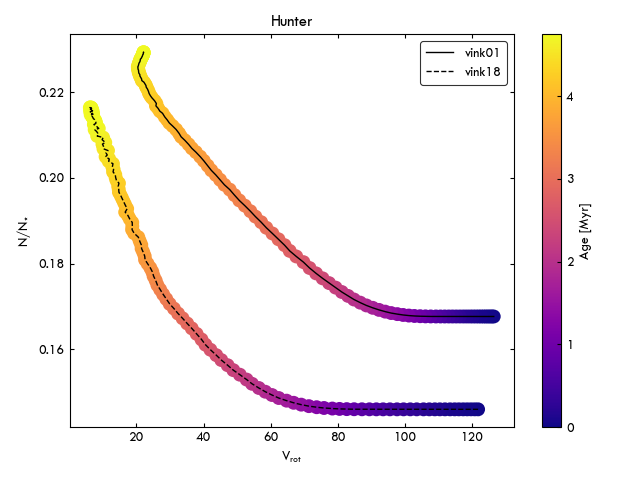
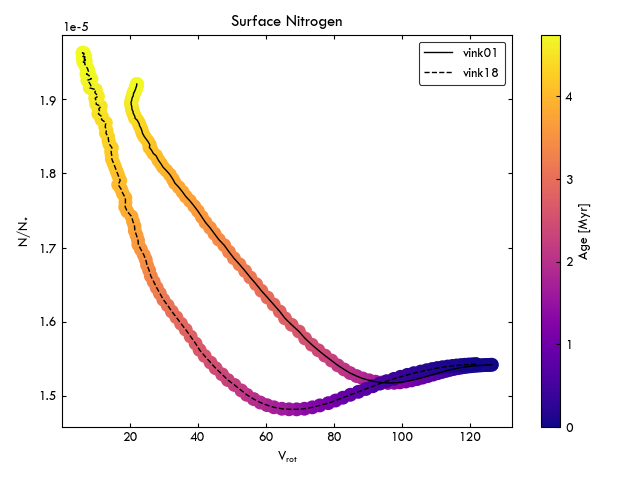
newplots

diff --git a/Code/Code/kippenhahn.py b/Code/Code/kippenhahn.py
@@ -19,6 +19,7 @@ Lsun = 3.828 * pow(10,33)
 Msun = 1.99 * pow(10,33)
 pi = np.pi
 
+# ----- Function to Plot Labels on Axis
 def multicolor_ylabel(ax,list_of_strings,list_of_colors,axis='x',anchorpad=0,**kw):
     """this function creates axes labels with multiple colors
     ax specifies the axes object where the labels should be drawn
@@ -55,7 +56,7 @@ def multicolor_ylabel(ax,list_of_strings,list_of_colors,axis='x',anchorpad=0,**k
         ax.add_artist(anchored_ybox)
 
 
-# ------ Mass Fractions ------
+# ------ Mass Fractions and Elements ------
 def mass(model1,model2, ms):
 
     if ms == True:
@@ -82,15 +83,6 @@ def mass(model1,model2, ms):
     # ------ Plot Lines ------
     ax.plot(model1.time[0:lim1], model1.convective_core[0:lim1], linestyle = 'dashed', color = 'black', label = 'Convective Core')
     #ax.plot(model1.time[0:lim1], model1.convtop[0:lim1], linestyle = 'dotted', color = 'black', label = 'Convective Top')
-    
-    #ax.plot(model1.time[0:lim1], model1.HeC[0:lim1], linewidth = 3, color = 'green', label = 'Bot h1')
-    #ax.plot(model1.time[0:lim1], model1.ntoth1[0:lim1], linewidth = 3, color = 'black', label = 'Total')
-    #ax.plot(model1.time[0:lim1], model1.botsurfhe[0:lim1], linewidth = 3, color = 'red', label = 'Bot he')
-    #ax.plot(model1.time[0:lim1], model1.ntothe[0:lim1], linewidth = 3, color = 'darkred', label = 'Tot he')
-    
-    #ax.plot(model1.time[0:lim1], model1.convbot[0:lim1], linewidth = 3, color = 'blue', label = 'conv-bot')
-    #ax.plot(model1.time[0:lim1], model1.nczradius[0:lim1], linestyle = 'dashed', linewidth = 1, color = 'lime', label = 'Conv Core Radius')
-    #ax.plot(model1.time[0:lim1], model1.convective_core[0:lim1], linewidth = 3, color = 'pink', label = 'core')
 
     # ------ Plot Colors ------
     ims1 = ax.scatter(BaseZams, zams.normM * model1.nmass[63 - 57], c= zams.mixtype, marker='_', edgecolors='none', s=100, cmap=colormap, vmin = 0, vmax = 6, zorder = 2)
@@ -103,23 +95,9 @@ def mass(model1,model2, ms):
     
     ax.fill_between(model1.time[0:lim1], model1.botsurfh1[0:lim1], model1.ntoth1[0:lim1], alpha = 0.6, color = 'darkgreen')
     ax.fill_between(model1.time[0:lim1], 0, model1.botsurfh1[0:lim1], alpha = 0.6, color = 'lime')
-    # ax.fill_between(model1.time[0:lim1], 0, model1.HC[0:lim1], alpha = 0.4, color = 'navy', hatch = '/')
-    # ax.fill_between(model1.time[0:lim1], 0, model1.HeC[0:lim1], alpha = 0.4, color = 'red', hatch = '/')
-    
 
-    # ax.fill_between(model1.time[0:lim1], model1.convbot2[0:lim1], model1.convtop2[0:lim1], alpha = 0.4, color = 'grey', hatch = '/')
-
-    #ax.fill_between(model1.time[0:lim1], 0, model1.ntoth1[0:lim1], alpha = 0.4, color = 'grey', hatch = '/')
     ax.fill_between(model1.time[0:lim1], model1.nmass[0:lim1], model1.nhemin[0:lim1], alpha = 0.6, color = 'darkred')
     ax.fill_between(model1.time[0:lim1], model1.nhemin[0:lim1], model1.ntotheminsurfmin[0:lim1], alpha = 0.6, color = 'red')
-    
-    # ax.fill_between(model1.time[0:lim1], model1.convtop[0:lim1], model1.nmass[0:lim1], alpha = 0.01, hatch = '|')
-    # ax.fill_between(model1.time[0:lim1], 0, model1.convective_core[0:lim1], alpha = 0.01, hatch = 'o')
-    
-    #ax.fill_between(model2.time[0:lim2], 0, model2.convective_core[0:lim2], alpha = 0.2, color = 'lime')
-    #ax.fill_between(model2.time[0:lim2], model2.convbot2[0:lim2], model1.convtop2[0:lim2], alpha = 0.2, color = 'lime')
-    #ax1.fill_between(model1.time[0:lim1], model1.convbot[0:lim1], model1.convtop[0:lim1], alpha = 0.2, color = 'grey', hatch = '///')
-
 
     # ------ Text ------
     #ax.text(1.3, 0.2, 'Convective core', fontweight = 'bold')
@@ -128,7 +106,7 @@ def mass(model1,model2, ms):
     # ax1.text(1, 0.8, 'Radiative envelope', fontweight = 'bold')
 
     # ------ Plot Colors On Axis ------
-    multicolor_ylabel(ax,('H$_{\mathregular{surf}}$','H','He$_{\mathregular{surf}}$','He'),('red','darkred','lime','darkgreen'),axis='yleft',size=14,weight='bold')
+    multicolor_ylabel(ax,('H','H$_{\mathregular{surf}}$','He','He$_{\mathregular{surf}}$'),('darkred','red','darkgreen','lime'),axis='yleft',size=14,weight='bold')
     multicolor_ylabel(ax,('Convection','Overshoot','Radiation'),('lightgrey','seagreen','navy'),axis='yright',size=14,weight='bold')
 
     # ------ Show ------
@@ -139,6 +117,71 @@ def mass(model1,model2, ms):
     plt.savefig(f'Plots/Kippenhahn/Kippenhahn{limit}.png')
 
 mass(vink01, vink18, ms=False)
+
+
+# ------ Mass Fractions and Elements ------
+def massconv(model1,model2, ms):
+
+    if ms == True:
+        # main sequence limit
+        lim1 = model1.mainsequence()
+        lim2 = model2.mainsequence()
+        limit = '_ms'
+    else:
+        # full simulation
+        lim1 = len(model1.age)
+        lim2 = len(model1.age)
+        limit = ''
+
+    # ------ Set Plot Style ------
+    default_style()
+    #plt.style.use('dark_background')
+    fig, ax, colormap = kippenhahn()
+
+    # list for x-axis structure plot
+    BaseZams = [0.0648] * len(zams.normR)
+    BaseMid = [3.12] * len(mid.normR)
+    BaseTams = [4.76] * len(tams.normR)
+    
+    # ------ Plot Lines ------
+    ax.plot(model1.time[0:lim1], model1.ntoth1[0:lim1], color = 'deeppink', label = 'Hydrogen')
+    ax.plot(model1.time[0:lim1], model1.ntothe[0:lim1], color = 'darkred', label = 'Helium')
+    # ------ Plot Colors ------
+    ims1 = ax.scatter(BaseZams, zams.normM * model1.nmass[63 - 57], c= zams.mixtype, marker='_', edgecolors='none', s=100, cmap=colormap, vmin = 0, vmax = 6, zorder = 2)
+    ims2 = ax.scatter(BaseMid, mid.normM * model1.nmass[107 - 57], c= mid.mixtype, marker='_', edgecolors='none', s=100, cmap=colormap, vmin = 0, vmax = 6, zorder = 2)
+    ims3 = ax.scatter(BaseTams, tams.normM * model1.nmass[200 - 57], c= tams.mixtype, marker='_', edgecolors='none', s=100, cmap=colormap, vmin = 0, vmax = 6, zorder = 2)
+    # cbar1 = fig.colorbar(ims1, ax = ax)
+    # cbar1.set_label('Zones')
+
+    # ------ Fill Planes ------
+    
+    # ax.fill_between(model1.time[0:lim1], model1.botsurfh1[0:lim1], model1.ntoth1[0:lim1], alpha = 0.6, color = 'darkgreen')
+    # ax.fill_between(model1.time[0:lim1], 0, model1.botsurfh1[0:lim1], alpha = 0.6, color = 'lime')
+
+    # ax.fill_between(model1.time[0:lim1], model1.nmass[0:lim1], model1.nhemin[0:lim1], alpha = 0.6, color = 'darkred')
+    # ax.fill_between(model1.time[0:lim1], model1.nhemin[0:lim1], model1.ntotheminsurfmin[0:lim1], alpha = 0.6, color = 'red')
+    
+    ax.fill_between(model1.time[0:lim1], model1.convtop[0:lim1], model1.nmass[0:lim1], alpha = 0.5, color = 'grey', hatch = '///')
+    ax.fill_between(model1.time[0:lim1], 0, model1.convective_core[0:lim1], alpha = 0.2, color = 'grey', hatch = '///')
+
+    # ------ Text ------
+    ax.text(1.3, 0.2, 'Convective core', fontweight = 'bold')
+    #ax.text(1.3, 0.56, 'Convective mix 1', fontweight = 'bold')
+    #ax.text(1.3, 0.9, 'Convective mix 2', fontweight = 'bold')
+    ax.text(1, 0.8, 'Radiative envelope', fontweight = 'bold')
+
+    # ------ Plot Colors On Axis ------
+    multicolor_ylabel(ax,('Hydrogen','Helium'),('darkred','deeppink'),axis='yleft',size=14,weight='bold')
+    multicolor_ylabel(ax,('Convection','Overshoot','Radiation'),('lightblue','seagreen','navy'),axis='yright',size=14,weight='bold')
+
+    # ------ Show ------
+    #plt.legend(shadow = False, edgecolor = 'k')
+    fig.tight_layout()
+    #plt.show()
+
+    plt.savefig(f'Plots/Kippenhahn/Kipconv{limit}.png')
+
+massconv(vink01, vink18, ms=False)
 
 
 

diff --git a/Code/Code/hunter.py b/Code/Code/hunter.py
@@ -19,30 +19,46 @@ Lsun = 3.828 * pow(10,33)
 Msun = 1.99 * pow(10,33)
 pi = np.pi
 
-
-def plot(model1, model2):
+# ------ Plot Nitrogen Main Sequence ------
+def plot(model1, model2, typ):
 
     # ------ Set Plot Style ------
     default_style()
-    fig, ax, colormap = hunterNH()
+    if typ == 'N':
+        fig, ax, colormap = hunter()
+    if typ =='NH':
+        fig, ax, colormap = hunterNH()
 
     # limits were main sequence ends
     lim1 = model1.mainsequence()
     lim2 = model2.mainsequence()
     
     # plot line
-    ax.plot(model1.vrot[0:lim1], model1.lognit[0:lim1], lw = 1, linestyle = 'solid', color = 'black', label= 'vink01')
-    ax.plot(model2.vrot[0:lim2], model2.lognit[0:lim2], lw = 1, linestyle = 'dashed', color = 'black', label= 'vink18')
-    
+    if typ == 'N':
+        ax.plot(model1.vrot[0:lim1], model1.nnit[0:lim1], lw = 1, linestyle = 'solid', color = 'black', label= 'vink01')
+        ax.plot(model2.vrot[0:lim2], model2.nnit[0:lim2], lw = 1, linestyle = 'dashed', color = 'black', label= 'vink18')
+    if typ == 'NH':
+        ax.plot(model1.vrot[0:lim1], model1.lognit[0:lim1], lw = 1, linestyle = 'solid', color = 'black', label= 'vink01')
+        ax.plot(model2.vrot[0:lim2], model2.lognit[0:lim2], lw = 1, linestyle = 'dashed', color = 'black', label= 'vink18')
+
     # plot colors
-    ims1 = ax.scatter(model1.vrot[0:lim1], model1.lognit[0:lim1], c= model1.age[0:lim1], marker='o', edgecolors='none', s=100, cmap=colormap, vmin = model1.get_min_bar(), vmax = model1.get_age(lim1))
-    ims2 = ax.scatter(model2.vrot[0:lim2], model2.lognit[0:lim2], c= model2.age[0:lim2], marker='o', edgecolors='none', s=100, cmap=colormap, vmin = model2.get_min_bar(), vmax = model1.get_age(lim1))
+    if typ == 'N':
+        ims1 = ax.scatter(model1.vrot[0:lim1], model1.nnit[0:lim1], c= model1.age[0:lim1], marker='o', edgecolors='none', s=100, cmap=colormap, vmin = model1.get_min_bar(), vmax = model1.get_age(lim1))
+        ims2 = ax.scatter(model2.vrot[0:lim2], model2.nnit[0:lim2], c= model2.age[0:lim2], marker='o', edgecolors='none', s=100, cmap=colormap, vmin = model2.get_min_bar(), vmax = model1.get_age(lim1))
+    if typ == 'NH':
+        ims1 = ax.scatter(model1.vrot[0:lim1], model1.lognit[0:lim1], c= model1.age[0:lim1], marker='o', edgecolors='none', s=100, cmap=colormap, vmin = model1.get_min_bar(), vmax = model1.get_age(lim1))
+        ims2 = ax.scatter(model2.vrot[0:lim2], model2.lognit[0:lim2], c= model2.age[0:lim2], marker='o', edgecolors='none', s=100, cmap=colormap, vmin = model2.get_min_bar(), vmax = model1.get_age(lim1))       
+    
     cbar1 = fig.colorbar(ims1, ax = ax)
     cbar1.set_label('Age [Myr]')
     ax.legend(shadow = False, edgecolor = 'k')
 
     fig.tight_layout()
     #plt.show()
-    plt.savefig('Plots/Hunter/NH+12.png')
 
-plot(vink01, vink18)
+    if typ == 'N':
+        plt.savefig('Plots/Hunter/normnit.png')
+    if typ == 'NH':
+        plt.savefig('Plots/Hunter/NH+12.png')
+
+plot(vink01, vink18, 'NH')

diff --git a/Code/Code/plot.py b/Code/Code/plot.py
@@ -13,7 +13,7 @@ def plot(model1, model2, ms):
 
     # ------ Set Plot Style ------
     default_style()
-    fig, ax, colormap = vescape()
+    fig, ax, colormap = HeC()
 
     if ms == True:
         # main sequence limit
@@ -35,18 +35,18 @@ def plot(model1, model2, ms):
         limit = ''
 
     # plot line
-    ax.plot(model1.vesc[0:lim1], model1.Mdot[0:lim1], lw = 1, linestyle = 'solid', color = 'black', label= 'vink01')
-    ax.plot(model2.vesc[0:lim2], model2.Mdot[0:lim2], lw = 1, linestyle = 'dashed', color = 'black', label= 'vink18')
+    ax.plot(model1.HeC[0:lim1], model1.CC[0:lim1], lw = 1, linestyle = 'solid', color = 'black', label= 'vink01')
+    ax.plot(model2.HeC[0:lim2], model2.CC[0:lim2], lw = 1, linestyle = 'dashed', color = 'black', label= 'vink18')
     
     # plot colors
-    ims1 = ax.scatter(model1.vesc[0:lim1], model1.Mdot[0:lim1], c= model1.age[0:lim1], marker='o', edgecolors='none', s=100, cmap=colormap, vmin = min1, vmax = max1)
-    ims2 = ax.scatter(model2.vesc[0:lim2], model2.Mdot[0:lim2], c= model2.age[0:lim2], marker='o', edgecolors='none', s=100, cmap=colormap, vmin = min2, vmax = max2)
+    ims1 = ax.scatter(model1.HeC[0:lim1], model1.CC[0:lim1], c= model1.age[0:lim1], marker='o', edgecolors='none', s=100, cmap=colormap, vmin = min1, vmax = max1)
+    ims2 = ax.scatter(model2.HeC[0:lim2], model2.CC[0:lim2], c= model2.age[0:lim2], marker='o', edgecolors='none', s=100, cmap=colormap, vmin = min2, vmax = max2)
     cbar1 = fig.colorbar(ims1, ax = ax)
     cbar1.set_label('Age [Myr]')
     ax.legend(shadow = False, edgecolor = 'k')
 
     fig.tight_layout()
     #plt.show()
-    plt.savefig(f'Plots/Week1/Vescape{limit}.png')
+    plt.savefig(f'Plots/Week1/He&Car{limit}.png')
 
-plot(vink01, vink18, ms=True)
+plot(vink01, vink18, ms=False)

diff --git a/Code/Code/plots.py b/Code/Code/plots.py
@@ -14,7 +14,7 @@ def HRD():
     ax.set_xlim(51,2)
     ax.set_xlabel('T$_{\mathregular{eff}}$ [kK]')
     ax.set_ylabel('log (L / L$_{\odot}$)')
-    ax.set_title('Both Models')
+    ax.set_title('Herzsprung Russell Diagram')
 
     return fig, ax, colormap
 
@@ -22,7 +22,7 @@ def subHRD():
 
     colormap = plt.cm.plasma
     fig, (ax1, ax2) = plt.subplots(2)
-    fig.suptitle('HRD 2 Models')
+    fig.suptitle('Herzsprung Russell Diagram')
 
     ax1.set_xlim(51,2)
     ax1.set_xlabel('T$_{\mathrm{eff}}$ [kK]')
@@ -76,7 +76,7 @@ def hunter():
     
     ax.set_xlabel('V$_{\mathregular{rot}}$')
     ax.set_ylabel('N/N$_{\star}$')
-    ax.set_title('Hunter')
+    ax.set_title('Surface Nitrogen')
 
     return fig, ax, colormap
     
@@ -93,5 +93,27 @@ def kippenhahn():
     #ax.set_xticks([0.0648,3.12,4.76])
     #ax.set_xticklabels(['Zams', 'Mid','Tams'])
     ax.set_xlabel('Time [Myr]')
+
+    return fig, ax, colormap
+
+def HHe():
+
+    colormap = plt.cm.plasma
+    fig, ax = plt.subplots(1,1)
+
+    ax.set_xlabel('Core Hydrogen')
+    ax.set_ylabel('Core Helium')
+    ax.set_title('Hydrogen and Helium')
+
+    return fig, ax, colormap
+
+def HeC():
+
+    colormap = plt.cm.plasma
+    fig, ax = plt.subplots(1,1)
+
+    ax.set_xlabel('Core Helium')
+    ax.set_ylabel('Core Carbon')
+    ax.set_title('Helium and Carbon')
 
     return fig, ax, colormap

diff --git a/Code/Code/HRD.py b/Code/Code/HRD.py
@@ -47,10 +47,10 @@ def hrd(model1, model2, ms):
     ax.legend(shadow = False, edgecolor = 'k')
 
     fig.tight_layout()
-    #plt.savefig(f'Plots/HRD{limit}.png')
-    plt.show()
+    plt.savefig(f'Plots/Week1/HRD{limit}.png')
+    #plt.show()
 
-hrd(vink01, vink18, ms=True)
+hrd(vink01, vink18, ms=False)
 
 # ------ Plot multiple HRD ------
 def subhrd(model1, model2):
@@ -79,7 +79,7 @@ def subhrd(model1, model2):
     cbar.set_label('Age [Myr]')
 
     fig.tight_layout()
-    #plt.savefig('Plots/HRD-sub.png')
-    plt.show()
+    plt.savefig('Plots/Week1/HRD-sub.png')
+    #plt.show()
 
-#subhrd(vink01, vink18)
+subhrd(vink01, vink18)
